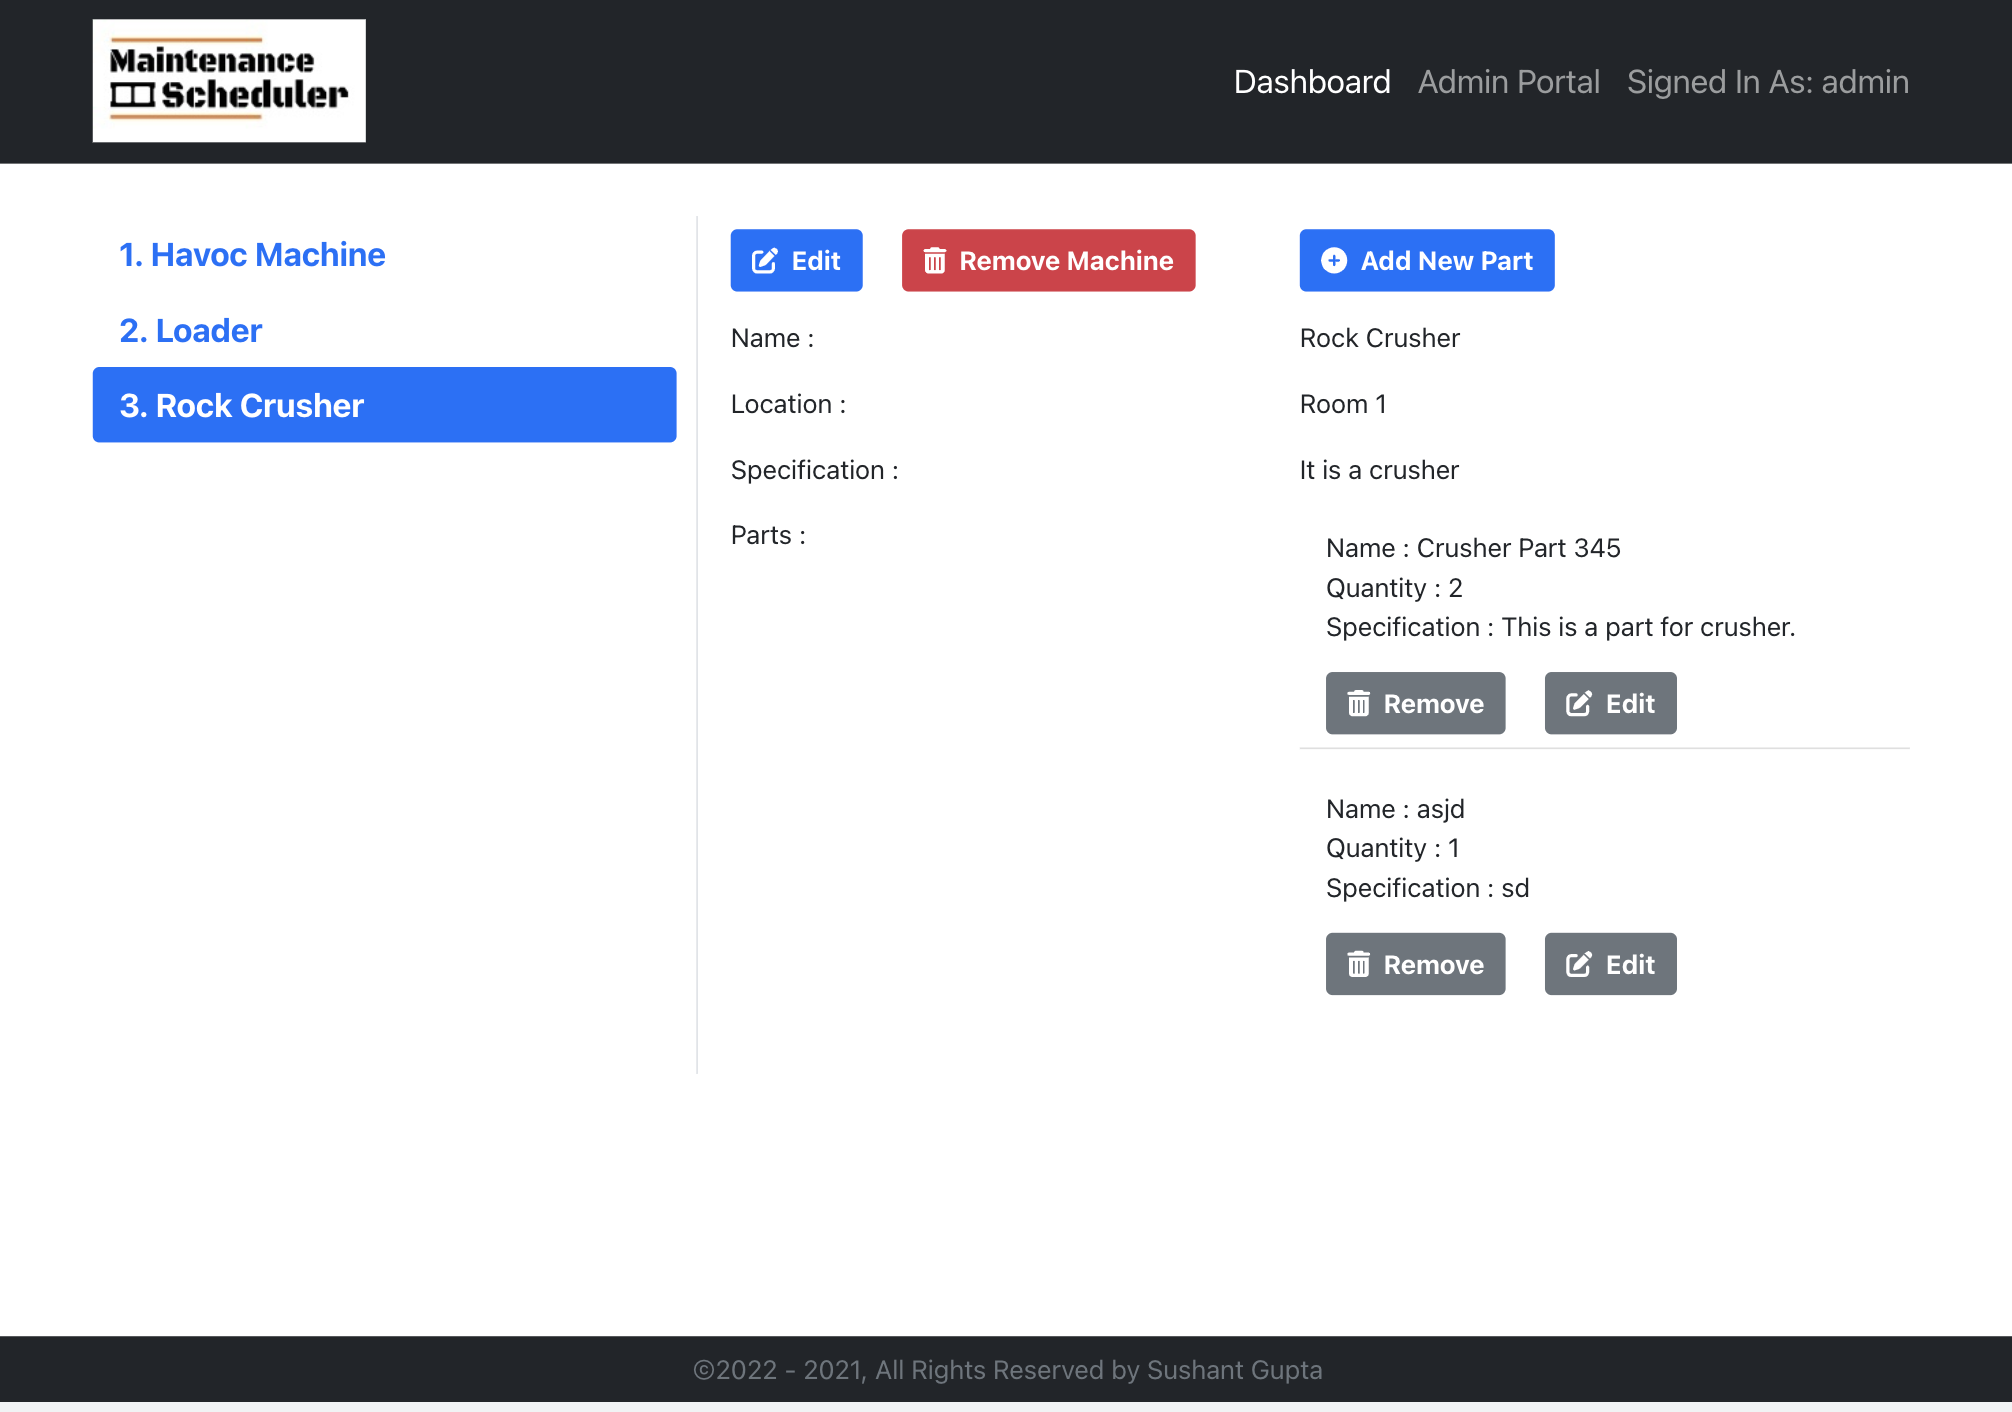
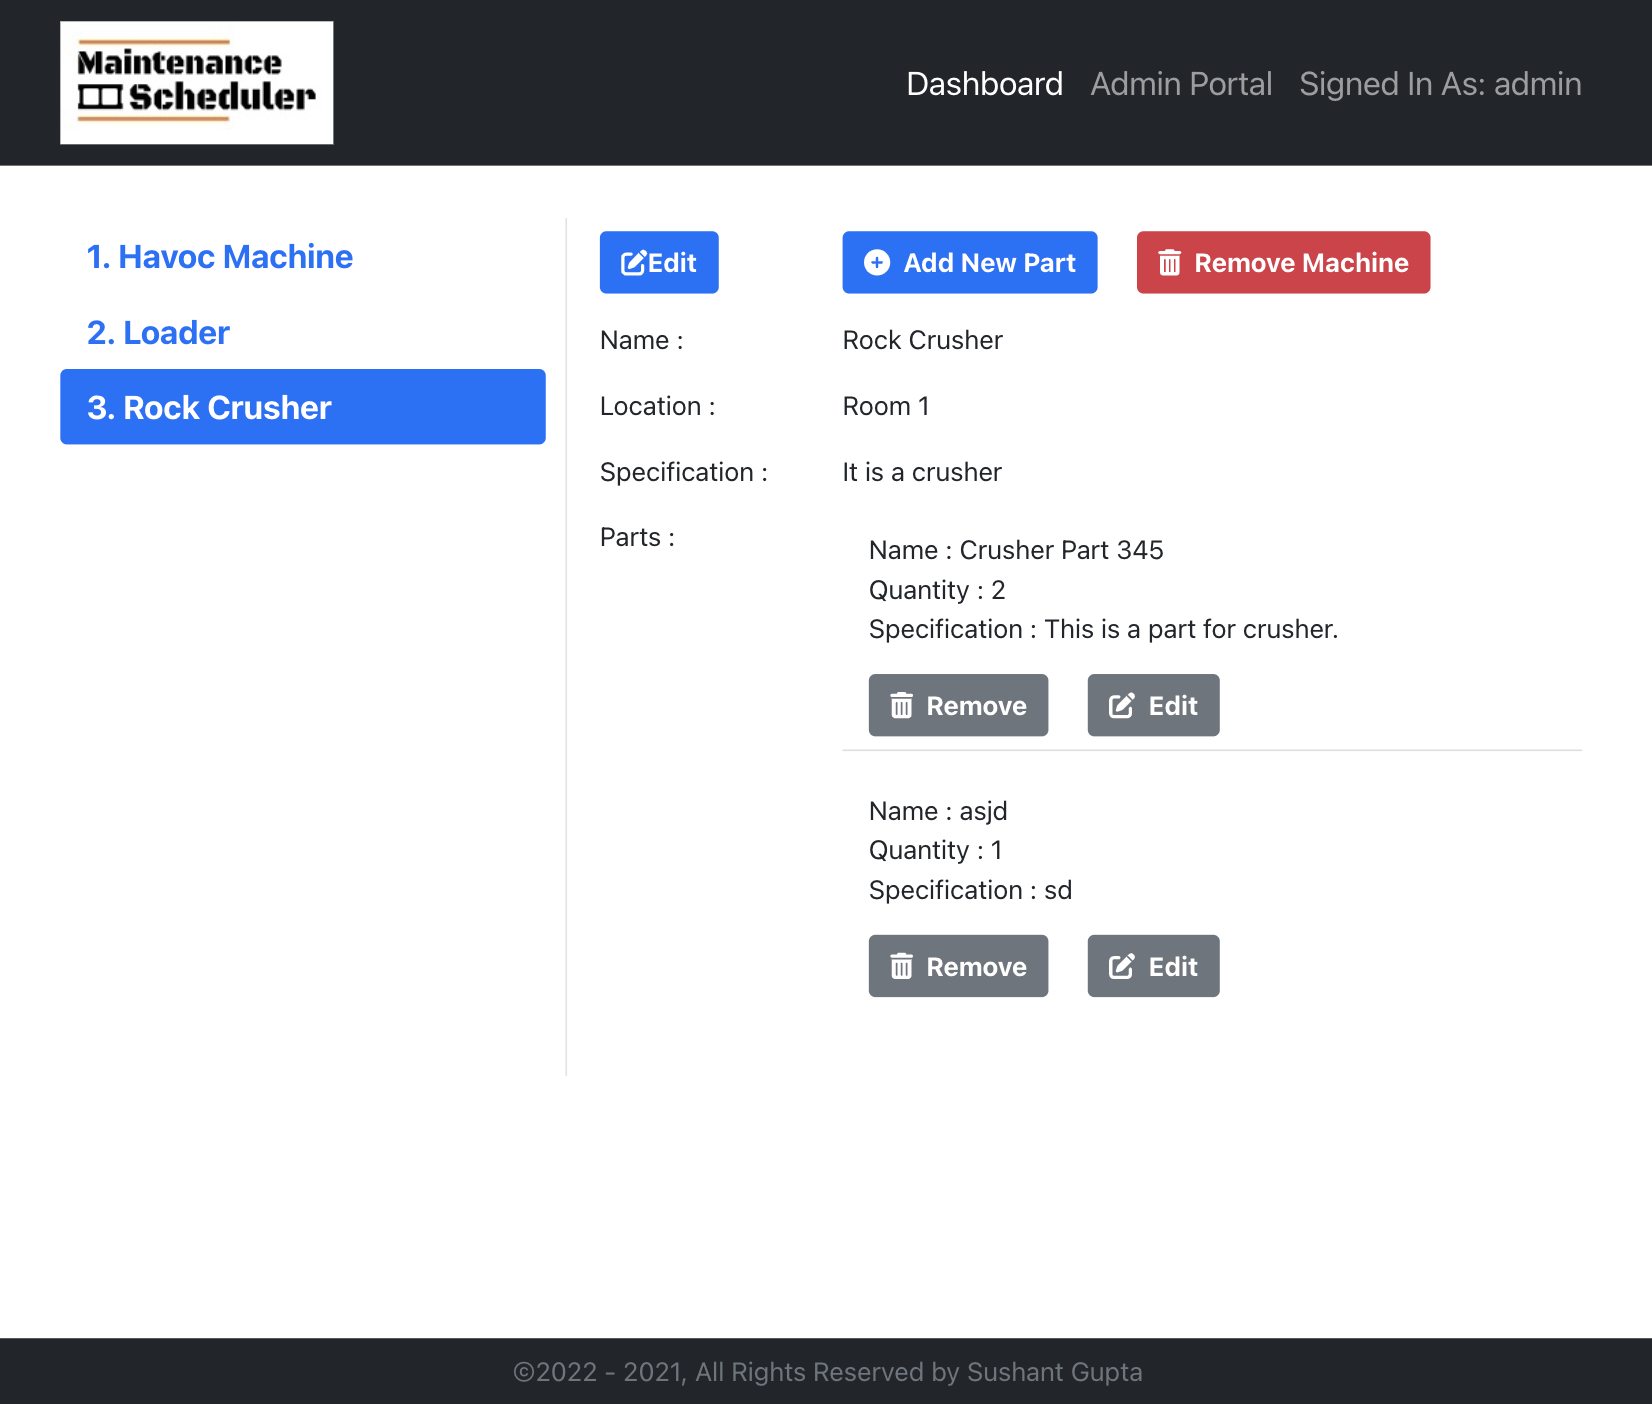
screenshots updated

diff --git a/clientapp/src/components/pages/machineService/MachineDetails.js b/clientapp/src/components/pages/machineService/MachineDetails.js
@@ -110,14 +110,26 @@ const MachineDetails = (props) => {
           <tr>
             <td>
               <Button 
-                className='fs-6 fw-bold me-4' 
+                className='fs-6 fw-bold' 
                 onClick={() => {
                   setShow(true)
                   setWhat('updateInfo');
                 }}
               >
-                <FontAwesomeIcon icon={faPenToSquare} className='pe-2' />
+                <FontAwesomeIcon icon={faPenToSquare} />
                 Edit
+              </Button>
+            </td>
+            <td>
+              <Button 
+                className='fs-6 fw-bold me-4'
+                onClick={() => {
+                  setShow(true)
+                  setWhat('addNewPart');
+                }}
+              >
+                <FontAwesomeIcon icon={faPlusCircle} className='pe-2' />
+                Add New Part
               </Button>
               {
                 (AuthenticationService.getLoggedInUserRole() === 'ADMIN') &&
@@ -130,18 +142,6 @@ const MachineDetails = (props) => {
                   Remove Machine
                 </Button>
               }
-            </td>
-            <td>
-              <Button 
-                className='fs-6 fw-bold'
-                onClick={() => {
-                  setShow(true)
-                  setWhat('addNewPart');
-                }}
-              >
-                <FontAwesomeIcon icon={faPlusCircle} className='pe-2' />
-                Add New Part
-              </Button>
             </td>
           </tr>
           <tr>

diff --git a/clientapp/src/components/utils/Footer.js b/clientapp/src/components/utils/Footer.js
@@ -10,8 +10,8 @@ const Footer = () => {
   return (
     <Navbar fixed='bottom' bg='dark' variant='dark'>
       <Container>
-        <Col lg={12} className="text-center text-muted">
-          <div>
+        <Col className="text-center text-muted">
+          <div className='text-center'>
             &copy;{year} - {year - 1}, All Rights Reserved by Sushant Gupta
           </div>
         </Col>
